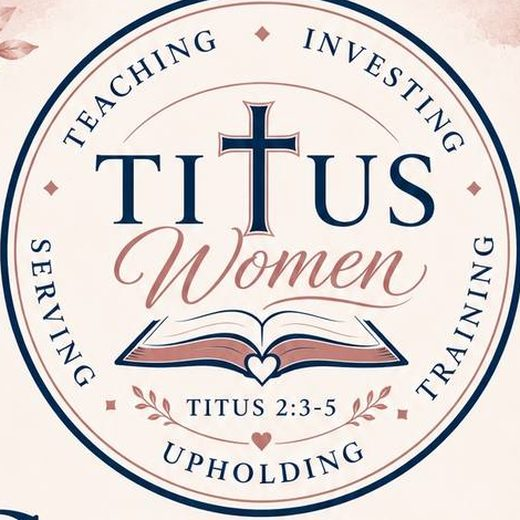
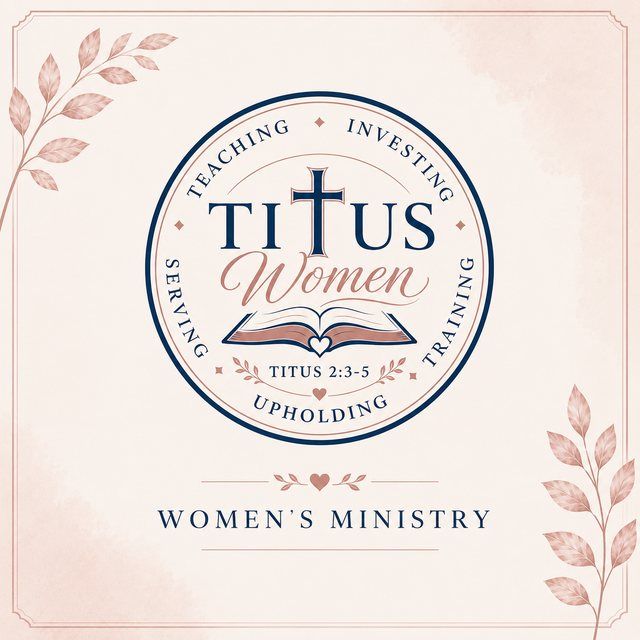
Update Titus Women ministry tile to new seal artwork
Replace the cropped emblem with the new square Titus Women seal (full
badge plus "Women's Ministry" wordmark, undated). Reuses the existing
img/titus-women-seal.jpg path so the ministries hub card picks it up with
no HTML change, and matches the card background to the artwork so the
tile blends in instead of being letterboxed. Keeps the source PNG as a
master, same as the church logo.

diff --git a/style.css b/style.css
@@ -687,8 +687,10 @@ a { text-decoration: none; color: inherit; }
 .min-card:hover { transform: translateY(-4px); box-shadow: var(--shadow-lg); }
 .min-card-img { position: relative; aspect-ratio: 16 / 10; background: var(--cream); overflow: hidden; }
 .min-card-img img { width: 100%; height: 100%; object-fit: cover; display: block; }
-.min-card-img.is-logo { background: #f4ebe7; }
-.min-card-img.is-logo img { object-fit: contain; padding: 16px; }
+/* Logo/emblem tiles sit on their own artwork background so the contained
+   square blends into the card instead of being letterboxed. */
+.min-card-img.is-logo { background: #f8f0eb; }
+.min-card-img.is-logo img { object-fit: contain; }
 .min-badge { position: absolute; top: 12px; left: 12px; z-index: 1; background: var(--gold); color: var(--navy-dark); font-size: 0.72rem; font-weight: 700; text-transform: uppercase; letter-spacing: 0.06em; padding: 5px 12px; border-radius: 20px; }
 .min-card-body { display: flex; flex-direction: column; flex: 1; padding: 24px 26px 26px; }
 .min-card-body h3 { font-size: 1.3rem; color: var(--navy); margin-bottom: 8px; }
